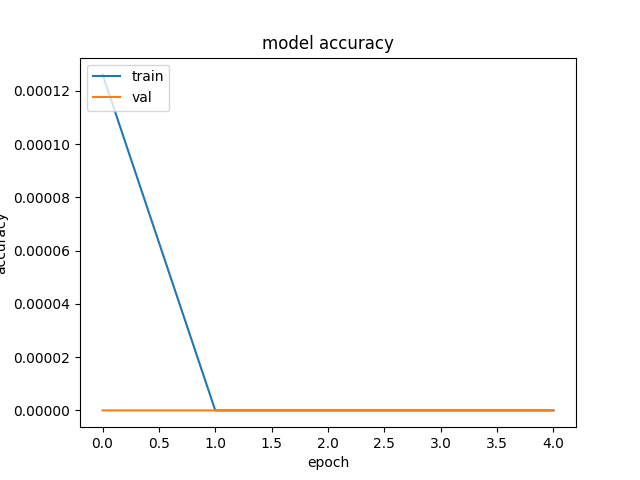
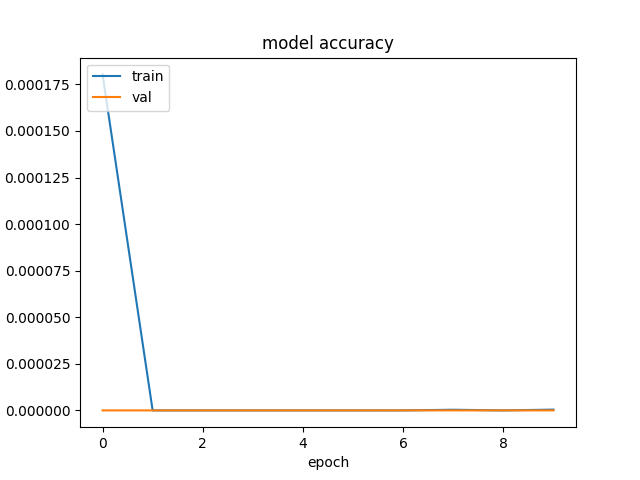
results after putting the H3 resolution as 3 and lr as 0.0001

diff --git a/train/run_fulll.py b/train/run_fulll.py
@@ -110,14 +110,14 @@ means = []
 # dataset = DataLoader(XrDataset(), batch_size=1)
 # files_dataloader = DataLoader(FileDataset("graph_weather/data/train_data"), batch_size = 1)
 model = GraphWeatherForecaster(lat_lons, feature_dim=65, num_blocks=6).to(device)
-optimizer = optim.AdamW(model.parameters(), lr=0.001)
+optimizer = optim.AdamW(model.parameters(), lr=0.000001)
 print("Done Setup")
 import time
 
 train_files = glob("graph_weather/data/train_data/*.nc", recursive=True)
 val_files = glob("graph_weather/data/val_data/*.nc", recursive=True)
 running_loss, running_val_loss = [], []
-for epoch in range(5):  # loop over the dataset multiple times
+for epoch in range(10):  # loop over the dataset multiple times
     model.train()
     start = time.time()
     inter_data = None
@@ -173,7 +173,7 @@ plt.title("model accuracy")
 plt.ylabel("accuracy")
 plt.xlabel("epoch")
 plt.legend(["train", "val"], loc="upper left")
-plt.savefig("openweather_10epochs_merra_batch_2.png")
+plt.savefig("openweather_20epochs_merra_batch_2.png")
 plt.show()
 # if epoch % 5 == 0:
 #     assert not np.isnan(running_loss)
